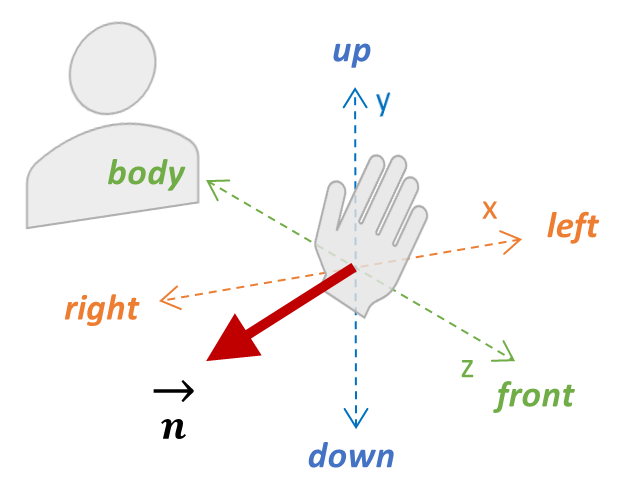
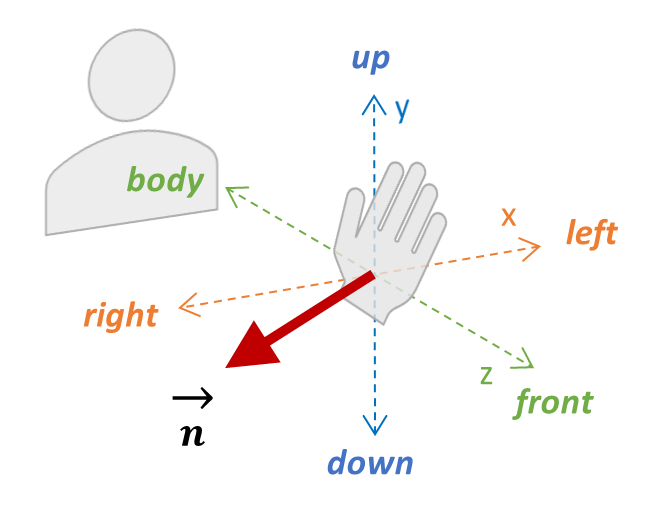
Ajustando imagens

diff --git a/capitulos/metodologia/selecao_modelos.tex b/capitulos/metodologia/selecao_modelos.tex
@@ -34,25 +34,27 @@ Realizamos uma busca de parâmetros do tipo \textit{Grid Search} com validação
 \begin{figure}[ht!]
     \centering
     \caption{\textmd{Parâmetros otimizados para o \textit{Encoder-Decoder} com \acrshort{lstm}}}
-    \subcaptionbox{Taxa de aprendizagem \label{subfig:otim-encdec-lstm-lr}}{
-        \includegraphics[width=5.0cm]{capitulos/metodologia/imagens/otim_encdec_lstm_lr}
-    }%
-    \hfill
-    \subcaptionbox{Dropout \label{subfig:otim-encdec-lstm-dropout}}{
-        \includegraphics[width=5.0cm]{capitulos/metodologia/imagens/otim_encdec_lstm_dropout}
-    }%
-    \hfill
-    \subcaptionbox{Nº de camadas \label{subfig:otim-encdec-lstm-layers}}{
-        \includegraphics[width=5.0cm]{capitulos/metodologia/imagens/otim_encdec_lstm_layers}
-    }%
-    \hfill
-    \subcaptionbox{Tamanho camadas ocultas \label{subfig:otim-encdec-lstm-hidden}}{
-        \includegraphics[width=5.0cm]{capitulos/metodologia/imagens/otim_encdec_lstm_hidden_size}
-    }%
-    % \hfill
-    \subcaptionbox{Tamanho embeddings \label{subfig:otim-encdec-lstm-emb}}{
-        \includegraphics[width=5.0cm]{capitulos/metodologia/imagens/otim_encdec_lstm_emb_size}
-    }%
+    \borda[\textwidth]{
+        \subcaptionbox{Taxa de aprendizagem \label{subfig:otim-encdec-lstm-lr}}{
+            \includegraphics[width=5.0cm]{capitulos/metodologia/imagens/otim_encdec_lstm_lr}
+        }%
+        % \hfill
+        \subcaptionbox{Dropout \label{subfig:otim-encdec-lstm-dropout}}{
+            \includegraphics[width=5.0cm]{capitulos/metodologia/imagens/otim_encdec_lstm_dropout}
+        }%
+        % \hfill
+        \subcaptionbox{Nº de camadas \label{subfig:otim-encdec-lstm-layers}}{
+            \includegraphics[width=5.0cm]{capitulos/metodologia/imagens/otim_encdec_lstm_layers}
+        }%
+        \hfill
+        \subcaptionbox{Tamanho camadas ocultas \label{subfig:otim-encdec-lstm-hidden}}{
+            \includegraphics[width=5.0cm]{capitulos/metodologia/imagens/otim_encdec_lstm_hidden_size}
+        }%
+        % \hfill
+        \subcaptionbox{Tamanho embeddings \label{subfig:otim-encdec-lstm-emb}}{
+            \includegraphics[width=5.0cm]{capitulos/metodologia/imagens/otim_encdec_lstm_emb_size}
+        }%
+    }
     \nomefonte{}
     \label{fig:otim-encdec-lstm}
 \end{figure}
@@ -66,25 +68,27 @@ Para o \textit{Encoder-Decoder} com \acrshort{gru}, por sua vez, utilizaram-se o
 \begin{figure}[ht!]
     \centering
     \caption{\textmd{Parâmetros otimizados para o \textit{Encoder-Decoder} com \acrshort{gru}}}
-    \subcaptionbox{Taxa de aprendizagem \label{subfig:otim-encdec-gru-lr}}{
-        \includegraphics[width=5.0cm]{capitulos/metodologia/imagens/otim_encdec_gru_lr}
-    }%
-    \hfill
-    \subcaptionbox{Dropout \label{subfig:otim-encdec-gru-dropout}}{
-        \includegraphics[width=5.0cm]{capitulos/metodologia/imagens/otim_encdec_gru_dropout}
-    }%
-    \hfill
-    \subcaptionbox{Nº de camadas \label{subfig:otim-encdec-gru-layers}}{
-        \includegraphics[width=5.0cm]{capitulos/metodologia/imagens/otim_encdec_gru_layers}
-    }%
-    \hfill
-    \subcaptionbox{Tamanho camadas ocultas\label{subfig:otim-encdec-gru-hidden}}{
-        \includegraphics[width=5.0cm]{capitulos/metodologia/imagens/otim_encdec_gru_hidden_size}
-    }%
-    % \hfill
-    \subcaptionbox{Tamanho embeddings\label{subfig:otim-encdec-gru-emb}}{
-        \includegraphics[width=5.0cm]{capitulos/metodologia/imagens/otim_encdec_gru_emb_size}
-    }%
+    \borda[\textwidth]{
+        \subcaptionbox{Taxa de aprendizagem \label{subfig:otim-encdec-gru-lr}}{
+            \includegraphics[width=5.0cm]{capitulos/metodologia/imagens/otim_encdec_gru_lr}
+        }%
+        % \hfill
+        \subcaptionbox{Dropout \label{subfig:otim-encdec-gru-dropout}}{
+            \includegraphics[width=5.0cm]{capitulos/metodologia/imagens/otim_encdec_gru_dropout}
+        }%
+        % \hfill
+        \subcaptionbox{Nº de camadas \label{subfig:otim-encdec-gru-layers}}{
+            \includegraphics[width=5.0cm]{capitulos/metodologia/imagens/otim_encdec_gru_layers}
+        }%
+        \hfill
+        \subcaptionbox{Tamanho camadas ocultas\label{subfig:otim-encdec-gru-hidden}}{
+            \includegraphics[width=5.0cm]{capitulos/metodologia/imagens/otim_encdec_gru_hidden_size}
+        }%
+        % \hfill
+        \subcaptionbox{Tamanho embeddings\label{subfig:otim-encdec-gru-emb}}{
+            \includegraphics[width=5.0cm]{capitulos/metodologia/imagens/otim_encdec_gru_emb_size}
+        }%
+    }
     \nomefonte{}
     \label{fig:otim-encdec-gru}
 \end{figure}
@@ -95,25 +99,27 @@ Para o \textit{Encoder-Decoder} com \acrshort{gru}, por sua vez, utilizaram-se o
 \begin{figure}[ht!]
     \centering
     \caption{\textmd{Parâmetro otimizado para o \textit{Transformer}}}
-    \subcaptionbox{Taxa de aprendizagem \label{subfig:otim-transformer-lr}}{
-        \includegraphics[width=5.0cm]{capitulos/metodologia/imagens/otim_transformer_lr}
-    }%
-    % \hfill
-    % \subcaptionbox{Dropout \label{subfig:otim-encdec-gru-dropout}}{
-    %     \includegraphics[width=5.0cm]{capitulos/metodologia/imagens/otim_transformer_dropout}
-    % }%
-    % \hfill
-    % \subcaptionbox{Nº de camadas \label{subfig:otim-encdec-gru-layers}}{
-    %     \includegraphics[width=5.0cm]{capitulos/metodologia/imagens/otim_transformer_layers}
-    % }%
-    % \hfill
-    % \subcaptionbox{Tamanho camadas ocultas\label{subfig:otim-encdec-gru-hidden}}{
-    %     \includegraphics[width=5.0cm]{capitulos/metodologia/imagens/otim_transformer_hidden_size}
-    % }%
-    % % \hfill
-    % \subcaptionbox{Tamanho embeddings\label{subfig:otim-encdec-gru-emb}}{
-    %     \includegraphics[width=5.0cm]{capitulos/metodologia/imagens/otim_transformer_emb_size}
-    % }%
+    \borda[\textwidth]{
+        \subcaptionbox{Taxa de aprendizagem \label{subfig:otim-transformer-lr}}{
+            \includegraphics[width=5.0cm]{capitulos/metodologia/imagens/otim_transformer_lr}
+        }%
+        % \hfill
+        % \subcaptionbox{Dropout \label{subfig:otim-encdec-gru-dropout}}{
+        %     \includegraphics[width=5.0cm]{capitulos/metodologia/imagens/otim_transformer_dropout}
+        % }%
+        % \hfill
+        % \subcaptionbox{Nº de camadas \label{subfig:otim-encdec-gru-layers}}{
+        %     \includegraphics[width=5.0cm]{capitulos/metodologia/imagens/otim_transformer_layers}
+        % }%
+        % \hfill
+        % \subcaptionbox{Tamanho camadas ocultas\label{subfig:otim-encdec-gru-hidden}}{
+        %     \includegraphics[width=5.0cm]{capitulos/metodologia/imagens/otim_transformer_hidden_size}
+        % }%
+        % % \hfill
+        % \subcaptionbox{Tamanho embeddings\label{subfig:otim-encdec-gru-emb}}{
+        %     \includegraphics[width=5.0cm]{capitulos/metodologia/imagens/otim_transformer_emb_size}
+        % }%
+    }
     \nomefonte{}
     \label{fig:otim-transformer}
 \end{figure}

diff --git a/capitulos/metodologia/datasets_phono.tex b/capitulos/metodologia/datasets_phono.tex
@@ -31,13 +31,15 @@ Sendo assim, descreveremos a seguir esses parâmetros, bem como a estratégia ut
                       %   A direção da palma \(O_{palm}\) é então calculada a partir de \(\protect \overrightarrow{n}\) e descrita dentre um conjunto de direções possíveis~(\subref{ subfig:palm-directions}).
                   }
               }
-              \subcaptionbox{\label{subfig:palm-orientation}}{
-                  \includegraphics[height=4cm]{capitulos/metodologia/imagens/palm_orientation_algebra}
-              }%
-              \hspace{1cm}
-              \subcaptionbox{\label{subfig:palm-directions}}{
-                  \includegraphics[height=4cm]{capitulos/metodologia/imagens/hand_orientations}
-              }%
+              \borda[0.60\textwidth]{
+                  \subcaptionbox{\label{subfig:palm-orientation}}{
+                      \includegraphics[height=3.8cm]{capitulos/metodologia/imagens/palm_orientation_algebra}
+                  }%
+                  \hfill
+                  \subcaptionbox{\label{subfig:palm-directions}}{
+                      \includegraphics[height=4cm]{capitulos/metodologia/imagens/hand_orientations}
+                  }%
+              }
               \nomefonte{}
               \label{fig:palm-orientation-directions}
           \end{figure}
@@ -96,13 +98,15 @@ Sendo assim, descreveremos a seguir esses parâmetros, bem como a estratégia ut
                       %   O movimento da mão \(V_{hand}\) é então obtido a partir de \(\protect \overrightarrow{m}\) e descrito dentre um conjunto de direções possíveis~(\subref{subfig:hand-directions}).
                   }
               }
-              \subcaptionbox{\label{subfig:hand-movement}}{
-                  \includegraphics[height=3.5cm]{capitulos/metodologia/imagens/hand_movement}
-              }%
-              \hspace{1cm}
-              \subcaptionbox{\label{subfig:hand-directions}}{
-                  \includegraphics[height=4cm]{capitulos/metodologia/imagens/hand_movement_2}
-              }%
+              \borda[0.7\textwidth]{
+                  \subcaptionbox{\label{subfig:hand-movement}}{
+                      \includegraphics[height=3.5cm]{capitulos/metodologia/imagens/hand_movement}
+                  }%
+                  \hfill
+                  \subcaptionbox{\label{subfig:hand-directions}}{
+                      \includegraphics[height=4cm]{capitulos/metodologia/imagens/hand_movement_2}
+                  }%
+              }
               \nomefonte{}
               \label{fig:hand-movement-directions}
           \end{figure}
@@ -187,14 +191,14 @@ Existem três agrupamentos contidos nela:
           Por exemplo, há um total de 9.747 amostras e 26 movimentos possíveis para a mão dominante.
 
     \item Por amostra: fornece estatísticas de mínimo, máximo, média e desvio padrão calculadas agrupando-se o \textit{dataset} por amostra.
-        Por exemplo, há em média 3,02 frames por amostra e esse número varia de 1 a 12 frames; de maneira semelhante, as amostras têm em média 1,94 movimentos distintos para a mão dominante, o que varia entre 0 e 10 movimentos.
-    
-    % contém estatísticas de números mínimos, máximos, médios e desvio padrão para os parâmetros computados acima. Por exemplo, lê-se que, em média, as amostras possuem 3,02 frames, sendo que a mais curta contém apenas 1 frame e a mais longa possui 12 frames. De maneira semelhante, as amostras têm em média de 1,94 movimentos e 2,20 orientações de mão distintas para a mão dominante.
+          Por exemplo, há em média 3,02 frames por amostra e esse número varia de 1 a 12 frames; de maneira semelhante, as amostras têm em média 1,94 movimentos distintos para a mão dominante, o que varia entre 0 e 10 movimentos.
+
+          % contém estatísticas de números mínimos, máximos, médios e desvio padrão para os parâmetros computados acima. Por exemplo, lê-se que, em média, as amostras possuem 3,02 frames, sendo que a mais curta contém apenas 1 frame e a mais longa possui 12 frames. De maneira semelhante, as amostras têm em média de 1,94 movimentos e 2,20 orientações de mão distintas para a mão dominante.
 
     \item Por sinal: fornece estatísticas de mínimo, máximo, média e desvio padrão calculadas agrupado-se o \textit{dataset} por sinal.
-        Por exemplo, cada sinal tem em média 3,68 amostras e isso pode variar de 1 até 59 -- no entanto, o desvio padrão nos revela que tal variação concentra-se muito mais em torno da média; nota-se também que a mão dominante realiza em média 6,04 movimentos distintos em um único sinal, o que pode variar de 1 a 24 para outros.
+          Por exemplo, cada sinal tem em média 3,68 amostras e isso pode variar de 1 até 59 -- no entanto, o desvio padrão nos revela que tal variação concentra-se muito mais em torno da média; nota-se também que a mão dominante realiza em média 6,04 movimentos distintos em um único sinal, o que pode variar de 1 a 24 para outros.
 
-    % contém estatísticas de números mínimos, máximos, médios e desvio padrão para os sinais contidos no \textit{dataset}. Por exemplo, lê-se que cada sinal possui em média de 3,68 amostras, sendo que alguns deles possuem apenas 1 e outros possuem valores atípicos de 59 amostras (a considerar pelo desvio padrão apresentado). Além disso, cada sinal apresenta em média 6,04 movimentos e 5,37 orientações de mão distintas para a mão dominante.
+          % contém estatísticas de números mínimos, máximos, médios e desvio padrão para os sinais contidos no \textit{dataset}. Por exemplo, lê-se que cada sinal possui em média de 3,68 amostras, sendo que alguns deles possuem apenas 1 e outros possuem valores atípicos de 59 amostras (a considerar pelo desvio padrão apresentado). Além disso, cada sinal apresenta em média 6,04 movimentos e 5,37 orientações de mão distintas para a mão dominante.
 \end{itemize}
 
 

diff --git a/capitulos/metodologia/datasets_3d.tex b/capitulos/metodologia/datasets_3d.tex
@@ -6,21 +6,22 @@ O ASL-Skeleton3D é um \textit{dataset} intermediário que introduz a representa
 Para que fosse possível projetar as amostras do \acrshort{asllvd} dentro do espaço tridimensional, adotamos uma estratégia que consiste essencialmente em combinar duas de suas perspectivas 2D perpendiculares entre si -- a vista frontal e a vista lateral -- para reconstruir uma perspectiva 3D, conforme ilustra a \autoref{fig:our-strategy-3d}. Com isso, assumimos que enquanto a vista frontal nos fornece os eixos \(x\) e \(y\), a vista lateral nos fornecerá a dimensão de profundidade, correspondente ao eixo \( z\).
 
 
-% TODO: ? criar componente para sub-figuras (lembrar de formatar bordas e espaçamento horizontal, conforme padrão ABNT)
 \begin{figure}[ht!]
     \centering
     \caption{\textmd{Estratégia adotada para representar as amostras no espaço 3D: as perspectivas frontal (\subref{subfig:our-strategy-3d-front}) e lateral (\subref{subfig:our-strategy-3d-side}) são posicionadas perpendicularmente para reconstruir uma perspectiva 3D (\subref{subfig:our-strategy-3d-persp})}}
-    \subcaptionbox{\label{subfig:our-strategy-3d-front}}{
-        \includegraphics[height=4cm]{capitulos/metodologia/imagens/chair_front}
-    }%
-    % \hfill
-    \subcaptionbox{\label{subfig:our-strategy-3d-side}}{
-        \includegraphics[height=4cm]{capitulos/metodologia/imagens/chair_side}
-    }%
-    % \hfill
-    \subcaptionbox{\label{subfig:our-strategy-3d-persp}}{
-        \includegraphics[height=4cm]{capitulos/metodologia/imagens/chair_perspective}
-    }%
+    \borda[0.80\textwidth]{
+        \subcaptionbox{\label{subfig:our-strategy-3d-front}}{
+            \includegraphics[height=3.5cm]{capitulos/metodologia/imagens/chair_front}
+        }%
+        \hfill
+        \subcaptionbox{\label{subfig:our-strategy-3d-side}}{
+            \includegraphics[height=3.5cm]{capitulos/metodologia/imagens/chair_side}
+        }%
+        \hfill
+        \subcaptionbox{\label{subfig:our-strategy-3d-persp}}{
+            \includegraphics[height=3.5cm]{capitulos/metodologia/imagens/chair_perspective}
+        }%
+    }
     \nomefonte{}
     \label{fig:our-strategy-3d}
 \end{figure}
@@ -58,17 +59,19 @@ Uma vez definida essa estratégia, nos baseamos no processo descrito por \citeon
           \begin{figure}[ht!]
               \centering
               \caption{\textmd{Os esqueletos 2D frontal (\subref{subfig:front-side-persp-skeletons-front}) e lateral (\subref{subfig:front-side-persp-skeletons-side}) são posicionados perpendicularmente (\subref{subfig:front-side-persp-skeletons-persp}) e combinados para compor o esqueleto 3D final utilizado aqui}}
-              \subcaptionbox{\label{subfig:front-side-persp-skeletons-front}}{
-                  \includegraphics[height=3cm]{capitulos/metodologia/imagens/asllvd_example_front_skeleton}
-              }%
-              %   \hfill
-              \subcaptionbox{\label{subfig:front-side-persp-skeletons-side}}{
-                  \includegraphics[height=3cm]{capitulos/metodologia/imagens/asllvd_example_side_skeleton}
-              }%
-              %   \hfill
-              \subcaptionbox{\label{subfig:front-side-persp-skeletons-persp}}{
-                  \includegraphics[height=4.5cm]{capitulos/metodologia/imagens/asllvd_front_side_perspective_skeleton}
-              }%
+              \borda[0.85\textwidth]{
+                  \subcaptionbox{\label{subfig:front-side-persp-skeletons-front}}{
+                      \includegraphics[height=2.5cm]{capitulos/metodologia/imagens/asllvd_example_front_skeleton}
+                  }%
+                  \hfill
+                  \subcaptionbox{\label{subfig:front-side-persp-skeletons-side}}{
+                      \includegraphics[height=2.5cm]{capitulos/metodologia/imagens/asllvd_example_side_skeleton}
+                  }%
+                  \hfill
+                  \subcaptionbox{\label{subfig:front-side-persp-skeletons-persp}}{
+                      \includegraphics[height=4.0cm]{capitulos/metodologia/imagens/asllvd_front_side_perspective_skeleton}
+                  }%
+              }
               \nomefonte{}
               \label{fig:front-side-persp-skeletons}
           \end{figure}
@@ -81,7 +84,7 @@ Uma vez definida essa estratégia, nos baseamos no processo descrito por \citeon
           \figura
           {fig:shoulders-width} % Label
           {capitulos/metodologia/imagens/shoulders_width} % Path
-          {height=3cm} % Size
+          {height=3.5cm} % Size
           {A largura entre ombros foi utilizada para normalizar as coordenadas nos esqueletos 3D} % Caption
           {} % Citation
 

diff --git a/capitulos/metodologia/datasets.tex b/capitulos/metodologia/datasets.tex
@@ -8,20 +8,19 @@ O \acrshort{asllvd}~\cite{athitsos-2008-asllvd,neidle-2012-asllvd} é um \textit
 \begin{figure}[ht!]
     \centering
     \caption{\textmd{Exemplo de três perspectivas capturadas pelo \acrshort{asllvd} para o sinal MERRY-GO-ROUND}}
-    \subcaptionbox{Vista frontal \label{subfig:asllvd-example-front}
-    }{
-        \includegraphics[width=0.25\textwidth]{capitulos/metodologia/imagens/asllvd_example_front}
-    }%
-    % \hfill
-    \subcaptionbox{Vista lateral \label{subfig:asllvd-example-side}
-    }{
-        \includegraphics[width=0.25\textwidth]{capitulos/metodologia/imagens/asllvd_example_side}
-    }%
-    % \hfill
-    \subcaptionbox{Vista da face \label{subfig:asllvd-example-close}
-    }{
-        \includegraphics[width=0.25\textwidth]{capitulos/metodologia/imagens/asllvd_example_close}
-    }%
+    \borda[0.85\textwidth]{
+        \subcaptionbox{Vista frontal \label{subfig:asllvd-example-front}}{
+            \includegraphics[height=3cm]{capitulos/metodologia/imagens/asllvd_example_front}
+        }%
+        \hfill
+        \subcaptionbox{Vista lateral \label{subfig:asllvd-example-side}}{
+            \includegraphics[height=3cm]{capitulos/metodologia/imagens/asllvd_example_side}
+        }%
+        \hfill
+        \subcaptionbox{Vista da face \label{subfig:asllvd-example-close}}{
+            \includegraphics[height=3cm]{capitulos/metodologia/imagens/asllvd_example_close}
+        }%
+    }
     \nomefonte[p. 2]{athitsos-2008-asllvd}
     \label{fig:asllvd-example}
 \end{figure}
@@ -29,7 +28,7 @@ O \acrshort{asllvd}~\cite{athitsos-2008-asllvd,neidle-2012-asllvd} é um \textit
 
 Para que fosse possível extrair \textit{features} no formato de parâmetros fonológicos a partir das amostras do \acrshort{asllvd}, que são compostas essencialmente de sequências de vídeos com frames em RGB, tivemos que realizar um processo de duas etapas.
 
-Na primeira, realizamos a estimativa das coordenadas dos esqueletos dos indivíduos para duas das perspectivas fornecidas para as amostras, os quais foram combinados em seguida para compor um esqueleto tridimensional final. A saída dessa etapa deu origem ao \textit{dataset} intermediário denominado ASL-Skeleton3D. 
+Na primeira, realizamos a estimativa das coordenadas dos esqueletos dos indivíduos para duas das perspectivas fornecidas para as amostras, os quais foram combinados em seguida para compor um esqueleto tridimensional final. A saída dessa etapa deu origem ao \textit{dataset} intermediário denominado ASL-Skeleton3D.
 Na segunda, aplicamos um conjunto de operações algébricas sob esse esqueleto tridimensional para finalmente computar nossos parâmetros fonológicos, processo esse que originou o \textit{dataset} ASL-Phono.
 
 % Para computar parâmetros fonológicos a partir dos frames das amostras do \acrshort{asllvd}, compostos essencialmente de imagens RGB bidimensionais, precisamos realizar um processo de duas etapas: primeiro, estimamos as coordenadas 2D dos esqueletos dos sinalizadores para duas câmeras distintas, frame-a-frame, e as combinamos para projetar um esqueleto no espaço 3D -- isso deu origem ao \textit{dataset} intermediário chamado ASL-Skeleton3D; em seguida, aplicamos um conjunto de operações algébricas sob o esqueleto 3D para calcular os parâmetros fonológicos -- o que gerou assim o nosso \textit{dataset} final chamado ASL-Phono.

diff --git a/capitulos/fundamentacao/modelos_sequenciais.tex b/capitulos/fundamentacao/modelos_sequenciais.tex
@@ -1,7 +1,7 @@
-\section{Modelos sequenciais}
+\section{Modelos sequenciais de aprendizagem de máquina}
 \label{sec:modelos-sequenciais}
 
-Introduziremos aqui uma breve discussão acerca dos modelos sequenciais de \acrlong{dl}, bem como sua importância dentro da área de \acrfull{nlp} para lidar com tarefas envolvendo linguagens.
+Introduziremos aqui uma breve discussão acerca dos modelos sequenciais de \acrlong{ml}, bem como sua importância dentro da área de \acrfull{nlp} para lidar com tarefas envolvendo linguagens.
 
 \citeonline{jurafsky-2022-speech-lang-processing} afirmam que a linguagem é um fenômeno inerentemente temporal e que pode ser compreendida como uma sequência de eventos que se desdobram ao longo do tempo, como um fluxo contínuo de dados.
 Os modelos sequenciais lidam diretamente com essa natureza, e são capazes de capturar e explorar tal aspecto temporal.

diff --git a/capitulos/metodologia/introducao.tex b/capitulos/metodologia/introducao.tex
@@ -98,7 +98,7 @@ Cada trecho é rotulado na linha inferior com suas respectivas partículas míni
 \figura[p. 586]
 {fig:exemplo-waveform-phone}
 {capitulos/metodologia/imagens/exemplo_waveform_phone}
-{width=\textwidth}
+{width=0.90\textwidth}
 {Formas de onda da fala para a sentença ``\textit{she just had a baby}'' (primeira linha) rotuladas com suas respectivas partículas de som transcritas em ARPAbet (linha inferior)}
 {jurafsky-2022-speech-lang-processing}
 

diff --git a/main.tex b/main.tex
@@ -50,6 +50,7 @@
 \usepackage{listings}
 \usepackage{adjustbox}          % ajustar tabela ao tamanho da pagina
 \usepackage{subcaption}
+\usepackage{tcolorbox}
 \usepackage{comandos}
 
 
